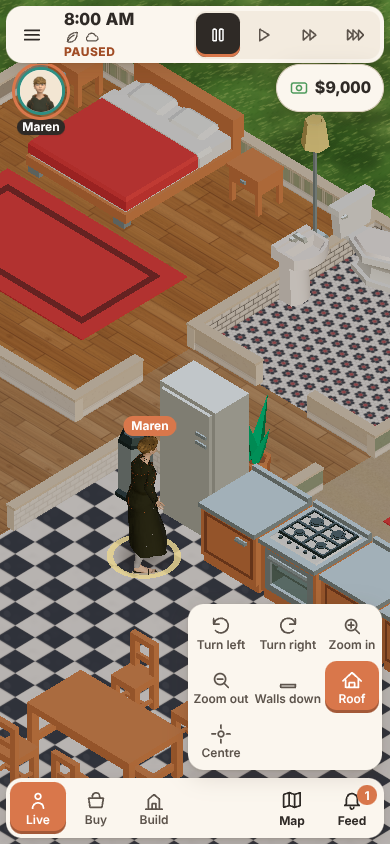
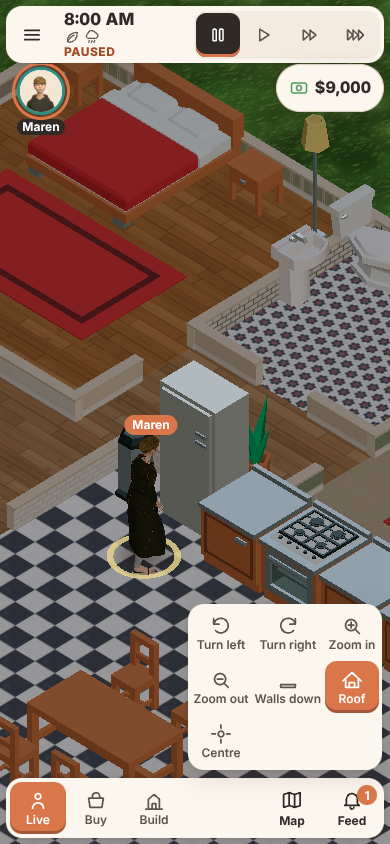
WIP: agents in progress
Claude-Session: https://claude.ai/code/session_01Sk68ke1565YUofyCmAJJtB

diff --git a/tests/unit/integration/poolTrip.test.ts b/tests/unit/integration/poolTrip.test.ts
@@ -25,7 +25,7 @@ function quietCore(): GameCore {
   s.settings.visitors = false;
   s.settings.autonomy = false;
   s.schedule = s.schedule.filter((e) => e.kind !== 'visitArrive');
-  for (const id of members(s)) if (s.people[id]!.career) core.quitCareer(id);
+  for (const p of members(s)) if (p.career) core.quitCareer(p.id);
   return core;
 }
 
@@ -37,7 +37,7 @@ describe('a day trip to the swimming pool', { timeout: 180_000 }, () => {
   it('travels to Quayside Baths, swims, showers and comes home', () => {
     const core = quietCore();
     const s = core.state()!;
-    const ids = members(s);
+    const ids = members(s).map((p) => p.id);
     expect(ids.length).toBeGreaterThanOrEqual(1);
     const homeId = s.activeLotId;
     const poolLot = Object.values(s.lots).find((l) => l.venueType === 'pool')!;
